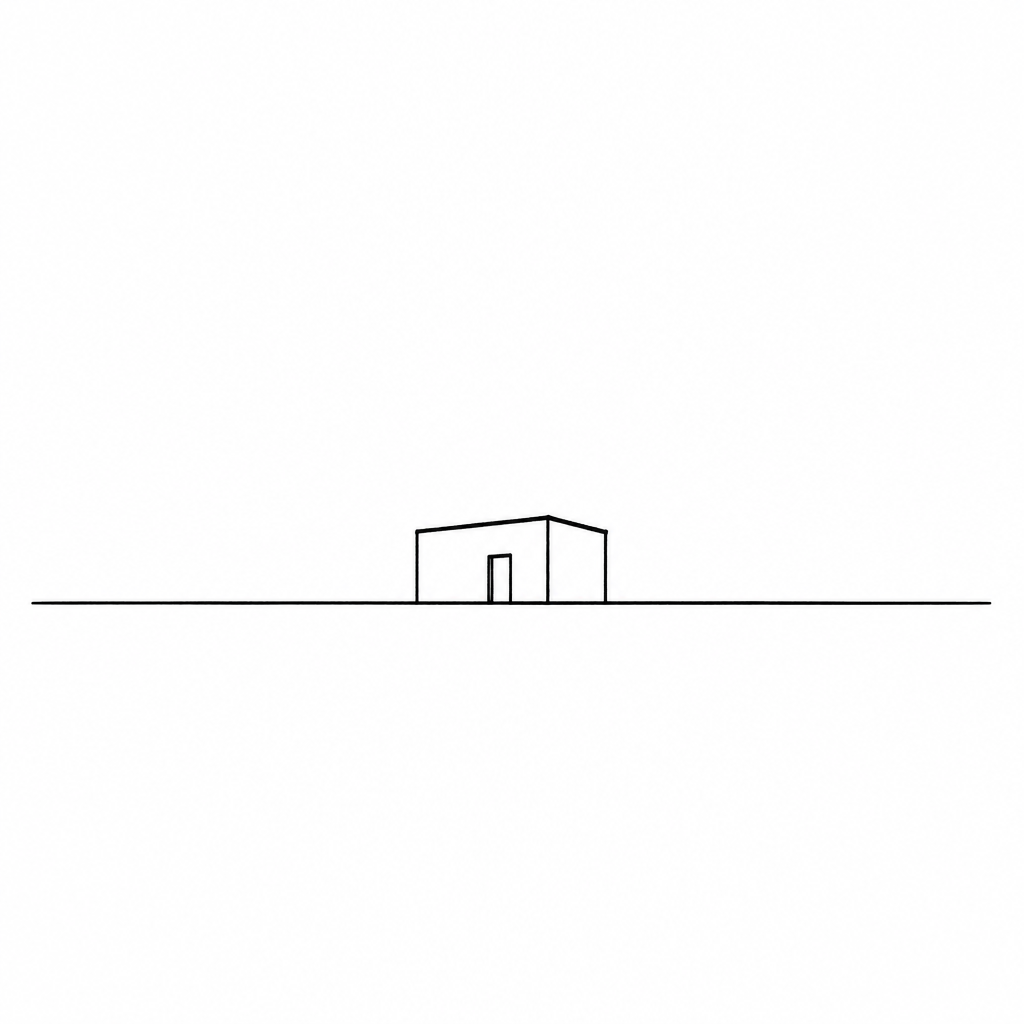
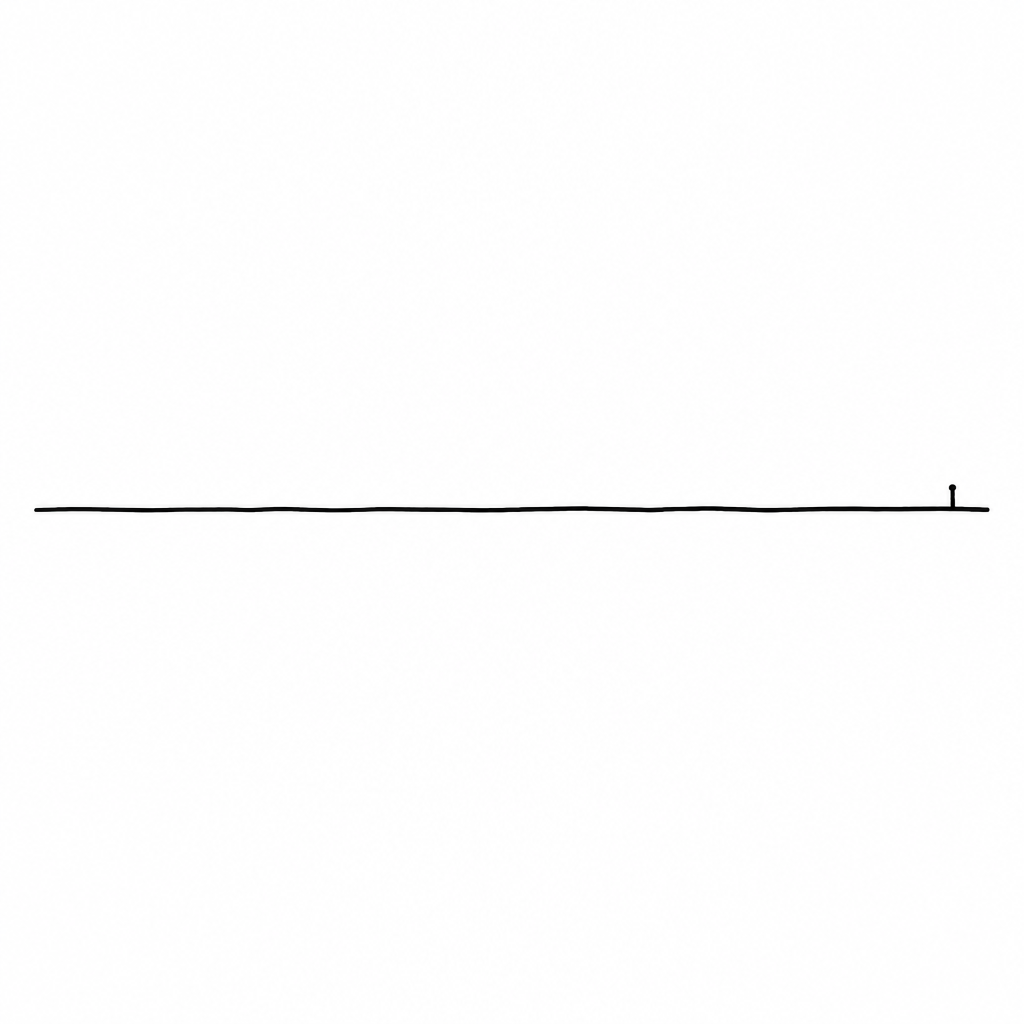
refactor(prompts): isolate placement cues

Changed region(s): [[0.0312, 0.4688, 0.9688, 0.5938]]

diff --git a/image-gen-prompt.md b/image-gen-prompt.md
@@ -82,67 +82,67 @@ Create a square black-and-white visual cue for a **Grain silo complex**. Show a 
 
 ### 17 — Flat open field
 
-Create a square black-and-white visual cue for **Flat open field** placement. Show a generic small building block resting on one long, perfectly straight ground line with almost no surrounding marks. Use sparse black hand-drawn architectural ink on white, centered with abundant empty space. The relationship between the isolated building and the flat horizon should be the only idea.
+Create a square black-and-white visual cue for **Flat open field** placement. Show one long, perfectly straight ground line with almost no surrounding marks and a tiny neutral site marker only if needed to establish scale. Do not draw a building, facade, roof, door, or building type. Use sparse black hand-drawn architectural ink on white, centered with abundant empty space; the flat horizon should be the only idea.
 
 ### 18 — Suburban cul-de-sac
 
-Create a square black-and-white visual cue for **Suburban cul-de-sac** placement. Show a simple building block at the end of a curved dead-end street, with only two or three short driveway or curb lines to establish the setting. Use minimal black architectural ink on white, centered with generous empty space. Avoid houses, cars, people, and a detailed neighborhood.
+Create a square black-and-white visual cue for **Suburban cul-de-sac** placement. Show a curved dead-end street with only two or three short driveway or curb lines and an empty lot marker at its end. Do not draw a building, house, facade, roof, door, cars, people, or a detailed neighborhood. Use minimal black architectural ink on white, centered with generous empty space.
 
 ### 19 — Wooded clearing
 
-Create a square black-and-white visual cue for **Wooded clearing** placement. Show one simple building block surrounded by three or four tall, widely spaced tree trunks, leaving a clear open gap around the building. Use sparse black ink lines on white with generous negative space. Keep the trees as simple vertical marks, not a forest illustration.
+Create a square black-and-white visual cue for **Wooded clearing** placement. Show three or four tall, widely spaced tree trunks leaving a clear open gap as the site. Do not draw a building; use only a tiny neutral ground marker if the clearing needs an anchor. Use sparse black ink lines on white with generous negative space. Keep the trees as simple vertical marks, not a forest illustration.
 
 ### 20 — Quiet residential street
 
-Create a square black-and-white visual cue for **Quiet residential street** placement. Show one simple building set along a straight street edge, with two low neighboring facade silhouettes behind it to establish scale. Use a few black architectural ink lines on white, centered and sparse. Do not draw cars, people, signs, or a detailed neighborhood; show only the calm street relationship.
+Create a square black-and-white visual cue for **Quiet residential street** placement. Show a straight street edge with two low, abstract neighboring mass silhouettes behind an empty site gap. Do not draw a building, facade detail, roof, door, cars, people, signs, or a detailed neighborhood. Use a few black architectural ink lines on white, centered and sparse; show only the calm street relationship.
 
 ### 21 — Corner lot
 
-Create a square black-and-white visual cue for **Corner lot** placement. Show one simple building block meeting two straight, perpendicular street or ground edges. Use only the building, the two intersecting edges, and a small amount of open space. Render it as a centered black architectural ink sketch on white, with the two public fronts clearly readable and no streetscape detail.
+Create a square black-and-white visual cue for **Corner lot** placement. Show two straight, perpendicular street or ground edges meeting around an empty corner site. Use only the two intersecting edges and a tiny neutral lot marker if needed; do not draw a building, facade, roof, door, or streetscape detail. Render it as a centered black architectural ink sketch on white with generous empty space.
 
 ### 22 — Dense urban alley
 
-Create a square black-and-white visual cue for **Dense urban alley** placement. Show a narrow building volume squeezed between two tall, close parallel wall edges, leaving only a thin strip of sky above. Use sparse black architectural ink on white, centered with generous empty space beyond the alley marks. Avoid windows, graffiti, people, and detailed city texture.
+Create a square black-and-white visual cue for **Dense urban alley** placement. Show two tall, close parallel wall edges forming a narrow alley and leaving only a thin strip of sky above. Do not draw a building inside the alley, windows, graffiti, people, or detailed city texture. Use sparse black architectural ink on white, centered with generous empty space beyond the alley marks.
 
 ### 23 — Rooftop garden
 
-Create a square black-and-white visual cue for **Rooftop garden** placement. Show a simple small pavilion or building block sitting on a flat roof slab, with only two or three simplified planter or plant marks around it. Use black hand-drawn architectural lines on white, centered and spacious. Communicate that the roof is the site; do not draw a full skyline or garden landscape.
+Create a square black-and-white visual cue for **Rooftop garden** placement. Show a flat roof slab with a simple parapet and two or three simplified planter or plant marks. Do not draw a pavilion, building, facade, roof form, skyline, or garden landscape; the roof plane is the site. Use black hand-drawn architectural lines on white, centered and spacious.
 
 ### 24 — Riverbank
 
-Create a square black-and-white visual cue for **Riverbank** placement. Show a simple building block beside one clear, gently irregular water edge, with a small gap or bank between building and water. Use minimal black ink lines on white, centered with generous negative space. Avoid reflections, boats, vegetation, and landscape detail; preserve the building-to-water relationship.
+Create a square black-and-white visual cue for **Riverbank** placement. Show one clear, gently irregular water edge with a small empty bank or neutral site marker beside it. Do not draw a building, facade, roof, door, reflections, boats, vegetation, or landscape detail. Use minimal black ink lines on white, centered with generous negative space; preserve the site-to-water relationship.
 
 ### 25 — Desert plain
 
-Create a square black-and-white visual cue for **Desert plain** placement. Show one stark simple building block on a long flat horizon, with one or two sparse ground marks suggesting an empty arid expanse. Use confident black architectural ink on white and a large amount of empty space. Do not add dunes, cacti, dramatic sun, or rendered atmosphere.
+Create a square black-and-white visual cue for **Desert plain** placement. Show a stark long flat horizon with one or two sparse ground marks suggesting an empty arid expanse and a tiny neutral site marker only if needed. Do not draw a building, dunes, cacti, dramatic sun, or rendered atmosphere. Use confident black architectural ink on white and a large amount of empty space.
 
 ### 26 — Reclaimed marsh
 
-Create a square black-and-white visual cue for **Reclaimed marsh** placement. Show a simple building raised on a few slender piers above a low water line, with two or three reed marks below. Use sparse black architectural ink on white, centered with generous empty space. Keep the marsh legible through elevation and water, not through a detailed wetland scene.
+Create a square black-and-white visual cue for **Reclaimed marsh** placement. Show a low water line, a few slender neutral site piers or a simple platform above it, and two or three reed marks below. Do not draw a building, facade, roof, or detailed wetland scene. Use sparse black architectural ink on white, centered with generous empty space; keep the marsh legible through elevation and water.
 
 ### 27 — Town square
 
-Create a square black-and-white visual cue for **Town square** placement. Show one simple building facade framing one side of an open square, with two short surrounding facade edges forming a public void. Use minimal black architectural ink on white, centered and spacious. The empty square should be more important than facade detail; avoid crowds, signage, and a complete townscape.
+Create a square black-and-white visual cue for **Town square** placement. Show an open public void framed by two or three short abstract mass edges, with no facade detail. Do not draw a building, doors, roofs, crowds, signage, or a complete townscape. Use minimal black architectural ink on white, centered and spacious; the empty square is the subject.
 
 ### 28 — Bridge over a road
 
-Create a square black-and-white visual cue for **Bridge over a road** placement. Show one simple building or enclosed bridge volume spanning above a single road line, with a clear gap for movement underneath. Use a few black architectural ink strokes on white, centered with generous empty space. Avoid cars, road markings, and structural engineering detail; make the vertical relationship immediate.
+Create a square black-and-white visual cue for **Bridge over a road** placement. Show a simple neutral horizontal span crossing above one road line, with a clear gap for movement underneath. Do not draw a building, enclosed volume, facade, cars, road markings, or structural engineering detail. Use a few black architectural ink strokes on white, centered with generous empty space; make the over-and-under relationship immediate.
 
 ### 29 — Steep cliffside
 
-Create a square black-and-white visual cue for **Steep cliffside** placement. Show a simple building block cantilevering over a strong diagonal cliff edge, with a small amount of exposed rock contour beneath. Use sparse black architectural ink on white, centered with generous empty space. Make the dramatic drop and building-to-edge relationship clear without drawing a landscape or realistic geology.
+Create a square black-and-white visual cue for **Steep cliffside** placement. Show a strong diagonal cliff edge with a small neutral platform or site marker cantilevering over the drop and a minimal exposed rock contour beneath. Do not draw a building, facade, roof, door, landscape, or realistic geology. Use sparse black architectural ink on white, centered with generous empty space; make the dramatic drop clear.
 
 ### 30 — Floating on water
 
-Create a square black-and-white visual cue for **Floating on water** placement. Show one simple building block visibly separated from a calm horizontal water surface, with one restrained reflection line below. Use minimal black hand-drawn architectural ink on white, centered with generous empty space. Do not add boats, waves, scenery, or realistic reflections; the separation from ground is the concept.
+Create a square black-and-white visual cue for **Floating on water** placement. Show a small neutral platform visibly separated from a calm horizontal water surface, with one restrained reflection line below. Do not draw a building, facade, roof, boats, waves, scenery, or realistic reflections; the separation from ground is the concept. Use minimal black hand-drawn architectural ink on white, centered with generous empty space.
 
 ### 31 — Cut into a hillside
 
-Create a square black-and-white visual cue for **Cut into a hillside** placement. Show a simple building volume partly buried in one diagonal land section, with a clear retaining edge and only a small exposed facade. Use sparse black architectural ink on white, centered with generous empty space. Communicate the cut-and-embedded relationship without a detailed terrain or construction drawing.
+Create a square black-and-white visual cue for **Cut into a hillside** placement. Show one diagonal land section with a clear retaining edge and a small neutral site void or marker partly embedded in the cut. Do not draw a building, facade, roof, door, or detailed terrain/construction drawing. Use sparse black architectural ink on white, centered with generous empty space; communicate only the cut-and-embedded relationship.
 
 ### 32 — Dense city intersection
 
-Create a square black-and-white visual cue for **Dense city intersection** placement. Show one simple building mass at the meeting point of two crossing street edges, with three or four tall surrounding corner silhouettes. Use minimal black architectural ink on white, centered and spacious. Avoid cars, signs, repeated windows, and a detailed skyline; show only the compressed intersection context.
+Create a square black-and-white visual cue for **Dense city intersection** placement. Show two crossing street edges with three or four tall abstract surrounding corner silhouettes and an empty central site gap. Do not draw a building in the gap, facade detail, cars, signs, repeated windows, or a detailed skyline. Use minimal black architectural ink on white, centered and spacious; show only the compressed intersection context.
 
 ## Perspective prompts
 
@@ -199,6 +199,6 @@ Create a square black-and-white visual cue for the **Sectional perspective** per
 - Exactly 44 prompts exist: 16 building, 16 placement, and 12 perspective.
 - Every prompt names exactly one source constraint value.
 - Every image is specified as square, black-and-white, centered, sparse, and unframed.
-- Building prompts use simple object sketches; placement prompts show a building/site relationship; perspective prompts show a drawing system.
+- Building prompts use simple object sketches; placement prompts show a site-only condition; perspective prompts show a drawing system.
 - No prompt asks for a finished drawing, photorealism, color, text, labels, or decorative detail.
 - Each prompt is distinct enough to generate a recognizable visual cue for its value while sharing the same system.

diff --git a/docs/constraint-image-style.md b/docs/constraint-image-style.md
@@ -44,7 +44,7 @@ Avoid rooms, furniture, facade ornament, realistic materials, repeated windows, 
 
 ### Placement values
 
-Represent the building plus the one site condition that defines the placement. The building can be a generic simple block; the environment carries the meaning:
+Represent only the site condition that defines the placement. Do not draw a recognizable building, facade, roof, door, or building type; the building constraint already supplies that information. Use a neutral marker only when needed to clarify a relationship: a small abstract rectangle, line, platform, or cut edge. The environment carries the meaning:
 
 - Flat open field → one block resting on a straight ground line.
 - Wooded clearing → one block surrounded by three or four tree trunks.
@@ -53,7 +53,7 @@ Represent the building plus the one site condition that defines the placement. T
 - Steep cliffside → one block cantilevered over a strong diagonal drop.
 - Floating on water → one block separated from the water surface with a clear reflection line.
 
-Use only a few environmental marks. Do not turn the image into a landscape illustration. The building and its relationship to the site must remain readable.
+Use only a few environmental marks. Do not turn the image into a landscape illustration. Placement images should function as composable site diagrams: answer “where does it go?” without answering “what is it?”
 
 ### Perspective values
 
